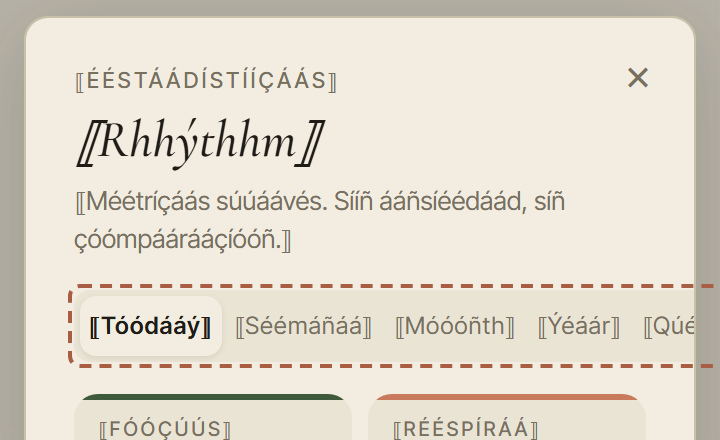
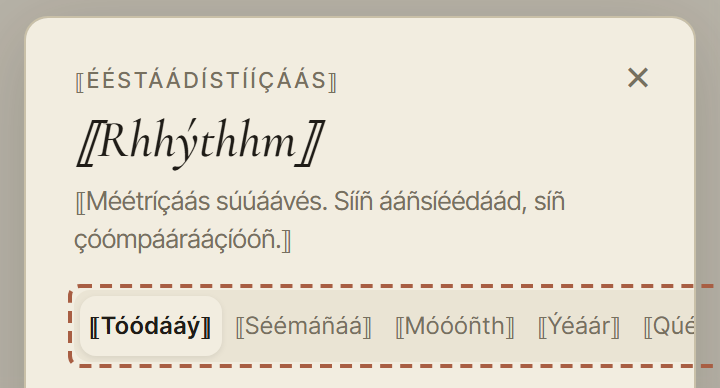
docs: las pestañas de Estadísticas pasan a ser la pregunta 3, con lo montado y dos opciones pintadas
Ez, viendo la foto: con lo montado (todas con «…») encogen las cinco a la vez y no se lee ninguna,
tampoco la elegida. Solo pasa con un texto más largo (en castellano y en inglés sobran 41 px), pero
el arreglo cambiaba algo que se ve y tenía que elegirlo Ez. Pintadas en la foto: A, la elegida no
encoge nunca; B, ninguna encoge y la fila se desliza de lado sin barra, como los filtros de la
biblioteca (recomendada). Las dos dejan 0 px de lado. El recorte acaba en la fila de las pestañas:
las tarjetas de debajo, cortadas, despistaban.

diff --git a/docs/proposals/textos-largos-17nov/index.html b/docs/proposals/textos-largos-17nov/index.html
@@ -55,6 +55,7 @@ figure{margin:0}
 figure img{display:block;width:100%;max-width:360px;height:auto;border:1px solid var(--line);border-radius:6px;background:var(--card)}
 figcaption{font-size:13px;color:var(--ink-3);margin-top:6px}
 .sola{max-width:300px;margin:14px 0}
+.par.cuatro{max-width:760px}
 .pregunta{border-left:3px solid var(--terra);padding:4px 0 4px 14px;margin:22px 0}
 .pregunta p{margin-bottom:6px}
 .rec{color:var(--olive)}
@@ -65,7 +66,7 @@ li{margin-bottom:6px}
 <main>
   <div class="eyebrow">PACE · antes de que los testers vean PACE en inglés · 17 nov. 2026</div>
   <h1>Textos largos</h1>
-  <p class="lead">Una prueba que alarga cada texto de PACE un 30 % para ver qué se rompe antes de que lo vea nadie. En inglés y en castellano de verdad salen dos cosas, que piden tu letra; con los textos más largos, cuatro más, y una ya está arreglada.</p>
+  <p class="lead">Una prueba que alarga cada texto de PACE un 30 % para ver qué se rompe antes de que lo vea nadie. En inglés y en castellano de verdad salen dos cosas que piden tu letra; con los textos más largos, cuatro más, y una de ellas (las pestañas de Estadísticas) también pide la tuya.</p>
   <p>Nada de esto cambia lo que ves hoy: el arreglo montado solo actúa cuando un texto no cabe, y en castellano y en inglés cabe.</p>
 
   <h2>Cómo se ha mirado</h2>
@@ -81,7 +82,7 @@ li{margin-bottom:6px}
       <tr><td>Ajustes, en un móvil que vibra y con los avisos bloqueados</td><td>360 × 640</td><td>Todo el panel: «Vibrar» y la línea «El navegador tiene las notificaciones bloqueadas…»</td><td class="px">12 px de scroll</td><td><span class="chip ya">Sí, en los dos idiomas</span> · pregunta 1</td></tr>
       <tr><td>Ventana de la pausa, por libre</td><td>360 de ancho</td><td>«Hidrátate · Respira · Muévete»</td><td class="px">5 px fuera de su caja</td><td><span class="chip ya">Sí, en castellano</span> · pregunta 2</td></tr>
       <tr><td>Ventana de la pausa, por libre</td><td>360 de ancho</td><td>La misma fila</td><td class="px">47 px fuera; la ventana se mueve 23 px de lado</td><td><span class="chip largo">Solo más largo</span> · pregunta 2</td></tr>
-      <tr><td>Estadísticas</td><td>360 de ancho</td><td>Las pestañas «Hoy · Semana · Mes · Año · Qué te ayuda»</td><td class="px">La hoja se movía 87 px de lado</td><td><span class="chip hecho">Arreglado</span></td></tr>
+      <tr><td>Estadísticas</td><td>360 de ancho</td><td>Las pestañas «Hoy · Semana · Mes · Año · Qué te ayuda»</td><td class="px">La hoja se movía 87 px de lado</td><td><span class="chip largo">Solo más largo</span> · pregunta 3</td></tr>
       <tr><td>La tarjeta del día (la pregunta)</td><td>360 × 640</td><td>«¿Cuánto trabajas hoy?» con sus horas y sus cuatro respuestas</td><td class="px">28 px de scroll en la home</td><td><span class="chip largo">Solo más largo</span></td></tr>
       <tr><td>Ajustes</td><td>360 × 640 · 360 × 740 · 1280 × 800</td><td>Todo el panel</td><td class="px">200 · 100 · 15 px de scroll</td><td><span class="chip largo">Solo más largo</span></td></tr>
       <tr><td>Todas</td><td>Los tres</td><td>Textos sin traducir</td><td class="px">Ninguno</td><td><span class="chip hecho">Bien</span></td></tr>
@@ -90,13 +91,6 @@ li{margin-bottom:6px}
   <p>Lo demás cabe en los tres tamaños y de las tres maneras: la home por libre y con la jornada, el runner de Mueve y Estira, Respira, el sobre, las bibliotecas, logros, la hoja de compra y la bienvenida.</p>
   <p class="nota">Lo que sale sin las marcas y está bien: las fechas, que las escribe el navegador ya en el idioma de la app («9 Nov»); «ES» y «EN» en la bienvenida; y las novedades del sobre, que se escriben a mano en los dos idiomas.</p>
 
-  <h2>Arreglado: las pestañas de Estadísticas</h2>
-  <p>Con un texto más largo, las cinco pestañas no podían encoger y empujaban la hoja entera hacia un lado: se podía arrastrar 87 px. Ahora, si un día no caben, encogen con puntos suspensivos, como ya hacen otros textos de PACE.</p>
-  <div class="par">
-    <div class="lado hoy"><div class="t">Antes, con textos largos</div><figure><img src="fotos/stats-largos-antes.png" alt="Estadísticas con los textos largos antes del arreglo: las pestañas se salen por la derecha" loading="lazy"></figure><figcaption>El recuadro: las pestañas se salen de la hoja, que se puede arrastrar 87 px de lado.</figcaption></div>
-    <div class="lado luego"><div class="t">Con el arreglo</div><figure><img src="fotos/stats-largos-despues.png" alt="Estadísticas con los textos largos y el arreglo: las cinco pestañas caben con puntos suspensivos" loading="lazy"></figure><figcaption>Caben, con puntos suspensivos.</figcaption></div>
-  </div>
-  <p class="nota">En castellano y en inglés no cambia nada: a 360 de ancho les sobran 41 px.</p>
   <h2>1 · Ajustes pide 12 px en el móvil</h2>
   <p>«Vibrar» (nuevo en la 0.208.0) solo sale en un móvil que puede vibrar, y la línea «El navegador tiene las notificaciones bloqueadas para este sitio» solo cuando los avisos de PACE están bloqueados. Cada una por separado cabe; las dos a la vez, a 360 × 640, piden 12 px de scroll, en castellano y en inglés. En la app de Android la frase es más larga («Los avisos de PACE están desactivados en los ajustes de Android»), así que ahí seguramente piden más.</p>
   <div class="par">
@@ -115,6 +109,16 @@ li{margin-bottom:6px}
   </div>
   <p><strong>A</strong>: en el móvil, el hueco entre las tres baja de 16 a 10 px. Sigue en una línea, del mismo tamaño, y cabe centrada. <strong>B</strong>: si no caben, parten en dos líneas; en castellano, a 360, ya saldrían en dos, con «Muévete» debajo.</p>
 
+  <h2>3 · Las pestañas de Estadísticas, si un día no caben</h2>
+  <p>Con un texto más largo, las cinco pestañas no podían encoger y empujaban la hoja entera hacia un lado: se podía arrastrar 87 px. Lo monté para que encogieran con puntos suspensivos, pero así encogen todas a la vez y no se lee ninguna, tampoco la que tienes elegida. En castellano y en inglés no pasa nada de esto: a 360 de ancho les sobran 41 px. Es para cuando llegue un idioma más largo.</p>
+  <div class="par cuatro">
+    <div class="lado hoy"><div class="t">Antes, con textos largos</div><figure><img src="fotos/stats-largos-antes.png" alt="Estadísticas con los textos largos sin arreglo: las pestañas se salen por la derecha" loading="lazy"></figure><figcaption>Se salen de la hoja, que se puede arrastrar 87 px de lado.</figcaption></div>
+    <div class="lado hoy"><div class="t">Montado ahora · todas con «…»</div><figure><img src="fotos/stats-largos-despues.png" alt="Lo montado: las cinco pestañas encogen con puntos suspensivos y no se lee ninguna" loading="lazy"></figure><figcaption>Caben, pero no se lee ninguna: «Tóó…», «Séém…».</figcaption></div>
+    <div class="lado luego"><div class="t">A · la elegida, entera</div><figure><img src="fotos/stats-largos-a.png" alt="Opción A: la pestaña elegida se lee entera y las demás encogen con puntos suspensivos" loading="lazy"></figure><figcaption>Siempre sabes dónde estás; las otras cuatro, cortadas.</figcaption></div>
+    <div class="lado luego"><div class="t">B · se deslizan de lado <span class="rec">(recomendada)</span></div><figure><img src="fotos/stats-largos-b.png" alt="Opción B: las pestañas se leen enteras y la fila se desliza de lado; la quinta queda fuera, a la derecha" loading="lazy"></figure><figcaption>Todas enteras; la quinta queda fuera, a la derecha, y se llega deslizando.</figcaption></div>
+  </div>
+  <p><strong>A</strong>: la pestaña elegida no encoge nunca y las demás encogen con «…». <strong>B</strong>: ninguna encoge; si no caben, la fila se desliza de lado, sin barra, como los filtros de la biblioteca de Mueve y Estira. Recomiendo la B porque los cinco nombres se leen enteros, aunque «Qué te ayuda» quede fuera hasta que deslizas.</p>
+
   <h2>Solo con un texto más largo</h2>
   <p>No pide nada hoy; queda vigilado por la prueba, que se pone en rojo si crece.</p>
   <div class="par">
@@ -130,7 +134,7 @@ li{margin-bottom:6px}
 
   <div class="pregunta">
     <h3>¿Qué letra?</h3>
-    <p>Pregunta 1 (Ajustes): A o B. Pregunta 2 (la pausa): A o B. <span class="rec">Recomendadas: 1A y 2A.</span></p>
-    <p class="nota">Montado y subido en la rama <code>claude/textos-largos-17nov-5fb6a3</code>: la prueba (45 pruebas nuevas, con el idioma largo solo en las pruebas y vigilado por <code>verify</code>) y el arreglo de Estadísticas. Falta tu «júntalo».</p>
+    <p>Pregunta 1 (Ajustes): A o B. Pregunta 2 (la pausa): A o B. Pregunta 3 (Estadísticas): lo montado, A o B. <span class="rec">Recomendadas: 1A, 2A y 3B.</span></p>
+    <p class="nota">Montado y subido en la rama <code>claude/textos-largos-17nov-5fb6a3</code>: la prueba (45 pruebas nuevas, con el idioma largo solo en las pruebas y vigilado por <code>verify</code>) y lo montado de Estadísticas (la pregunta 3: con tu letra lo cambio). Falta tu «júntalo».</p>
   </div>
 </main>

diff --git a/docs/proposals/textos-largos-17nov/genera.js b/docs/proposals/textos-largos-17nov/genera.js
@@ -105,27 +105,30 @@ async function foto(b, nombre, modo, w, h, id, momento, o) {
   /* Cómo se ven los textos largos: la pantalla entera. */
   await foto(b, 'largos-home-360', 'largos', 360, 740, 'home-jornada', 'la home');
 
-  /* Lo montado: la cabecera de Estadísticas, antes (las pestañas sin poder encoger) y con el arreglo. */
+  /* Pregunta 3 · la cabecera de Estadísticas con los textos largos: antes (las pestañas sin poder encoger),
+     lo montado (todas con «…») y las dos opciones, pintadas solo en la foto. Hasta la fila de las pestañas:
+     las tarjetas de debajo, cortadas, despistaban. */
   const cabecera = () => {
     const c = [...document.querySelectorAll('[data-pace-modal-card]')].filter((e) => e.getClientRects().length).pop().getBoundingClientRect();
     const t = document.querySelector('[data-pace-stats-tabs]').getBoundingClientRect();
     const y = Math.max(0, c.top - 8);
-    return { x: 0, y, width: innerWidth, height: t.bottom + 40 - y };
+    return { x: 0, y, width: innerWidth, height: t.bottom + 14 - y };
   };
-  const sinEncoger = () => { const s = document.createElement('style'); s.textContent = '[data-pace-stats-tabs],[data-pace-stats-tab]{min-width:auto!important}'; document.head.appendChild(s); };
+  const recuadro = (color) => new Function('const t = document.querySelector(\'[data-pace-stats-tabs]\').getBoundingClientRect();' +
+    'window.__marca({ left: t.left - 3, top: t.top - 3, width: t.width + 6, height: t.height + 6 }, { color: \'' + color + '\', discontinua: true });');
+  const conCss = (css) => new Function('const s = document.createElement(\'style\'); s.textContent = ' + JSON.stringify(css) + '; document.head.appendChild(s);');
   await foto(b, 'stats-largos-antes', 'largos', 360, 640, 'estadisticas', 'pestaña today', {
-    antes: sinEncoger, recorte: cabecera,
-    marcas: () => {
-      const t = document.querySelector('[data-pace-stats-tabs]').getBoundingClientRect();
-      window.__marca({ left: t.left - 3, top: t.top - 3, width: t.width + 6, height: t.height + 6 }, { color: 'terra', discontinua: true });
-    },
+    antes: conCss('[data-pace-stats-tabs],[data-pace-stats-tab]{min-width:auto!important}'), recorte: cabecera, marcas: recuadro('terra'),
   });
-  await foto(b, 'stats-largos-despues', 'largos', 360, 640, 'estadisticas', 'pestaña today', {
-    recorte: cabecera,
-    marcas: () => {
-      const t = document.querySelector('[data-pace-stats-tabs]').getBoundingClientRect();
-      window.__marca({ left: t.left - 3, top: t.top - 3, width: t.width + 6, height: t.height + 6 }, { color: 'olivo', discontinua: true });
-    },
+  await foto(b, 'stats-largos-despues', 'largos', 360, 640, 'estadisticas', 'pestaña today', { recorte: cabecera, marcas: recuadro('terra') });
+  /* A: la pestaña elegida no encoge nunca; las demás, con «…». */
+  await foto(b, 'stats-largos-a', 'largos', 360, 640, 'estadisticas', 'pestaña today', {
+    antes: conCss('[data-pace-stats-tab][aria-pressed="true"]{flex-shrink:0!important}'), recorte: cabecera, marcas: recuadro('olivo'),
+  });
+  /* B: ninguna encoge; la fila se desliza de lado, sin barra, como los filtros de la biblioteca. */
+  await foto(b, 'stats-largos-b', 'largos', 360, 640, 'estadisticas', 'pestaña today', {
+    antes: conCss('[data-pace-stats-tabs]{overflow-x:auto!important;scrollbar-width:none}[data-pace-stats-tab]{flex-shrink:0!important}'),
+    recorte: cabecera, marcas: recuadro('olivo'),
   });
 
   /* Pregunta 1 · Ajustes a 360×640 con «Vibrar» y las notificaciones bloqueadas: desde «Sesiones» hasta el

diff --git a/STATE.md b/STATE.md
@@ -119,8 +119,8 @@ con mucho abierto: a «¿qué toca?», una sola cosa.
   borra la rutina a medias de otra (`olvidarCuerpoGuardada` con `inPath`), «¿Salir del Camino?» no suspende la sesión
   de debajo, y esa confirmación no encierra el Tab ni usa `usePaceDialogo`.
 - Los plurales, D-1 a D-3 y la actualización desde la 0.191.1 y la 0.174.0, con sus pruebas (tanda 2, 16 nov.). La
-  pseudolocalización, hecha en `claude/textos-largos-17nov-5fb6a3` (17 nov.): `tests/textos-largos.spec.js`, el arreglo de
-  las pestañas de Estadísticas y dos preguntas para Ez (Ajustes, 12 px a 360×640; la fila de la pausa en castellano),
+  pseudolocalización, hecha en `claude/textos-largos-17nov-5fb6a3` (17 nov.): `tests/textos-largos.spec.js` y tres preguntas
+  para Ez (Ajustes, 12 px a 360×640; la fila de la pausa en castellano; las pestañas de Estadísticas, ya con «…»),
   en la página QWaU4nFeXFHAo1Qufx9eqd (`docs/proposals/textos-largos-17nov/`).
 
 El detalle de lo hecho está en `CHANGELOG.md`, en el relevo (`docs/traspaso/relevo-coordinadora-22oct.md`) y en
